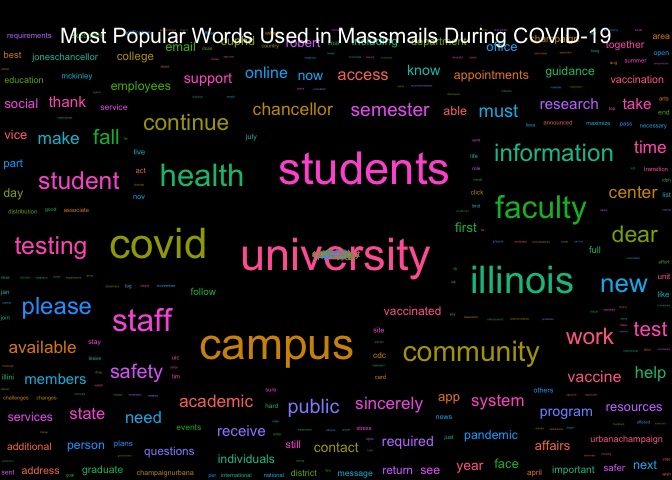
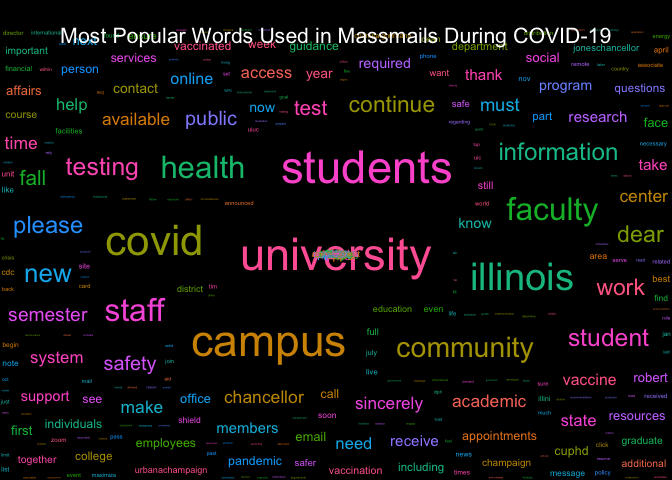
Re-build README.Rmd and Graphs

diff --git a/README.md b/README.md
@@ -17,7 +17,7 @@ The archive may be viewed here:
 
 <https://massmail.illinois.edu/massmailArchive>
 
-Data has **1472** observations and **7** variables:
+Data has **1473** observations and **7** variables:
 
   - `datetime`: Date and time when the email was sent in the form of
     `YYYY-MM-DD HMS` with either CDT or CST.
@@ -210,16 +210,16 @@ head(most_popular_words, 10) %>%
 
 | word        | freq |
 | :---------- | ---: |
-| university  | 1314 |
+| university  | 1320 |
 | students    | 1221 |
-| campus      | 1147 |
-| covid       |  930 |
-| illinois    |  851 |
-| community   |  721 |
-| faculty     |  700 |
+| campus      | 1148 |
+| covid       |  931 |
+| illinois    |  855 |
+| community   |  722 |
+| faculty     |  702 |
 | health      |  643 |
-| staff       |  580 |
-| information |  556 |
+| staff       |  582 |
+| information |  557 |
 
 #### Wordcloud
 
